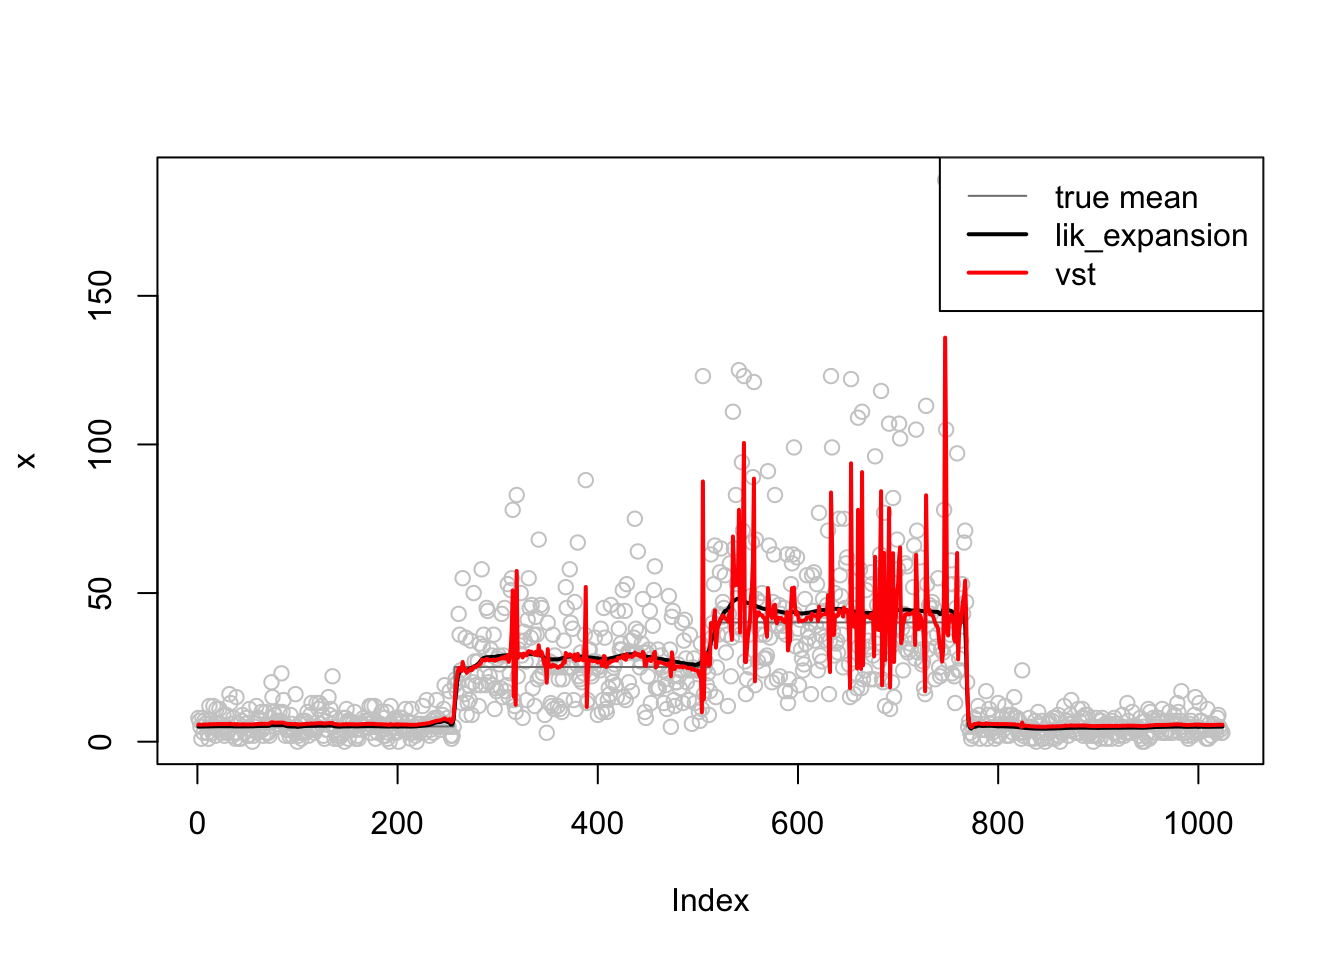
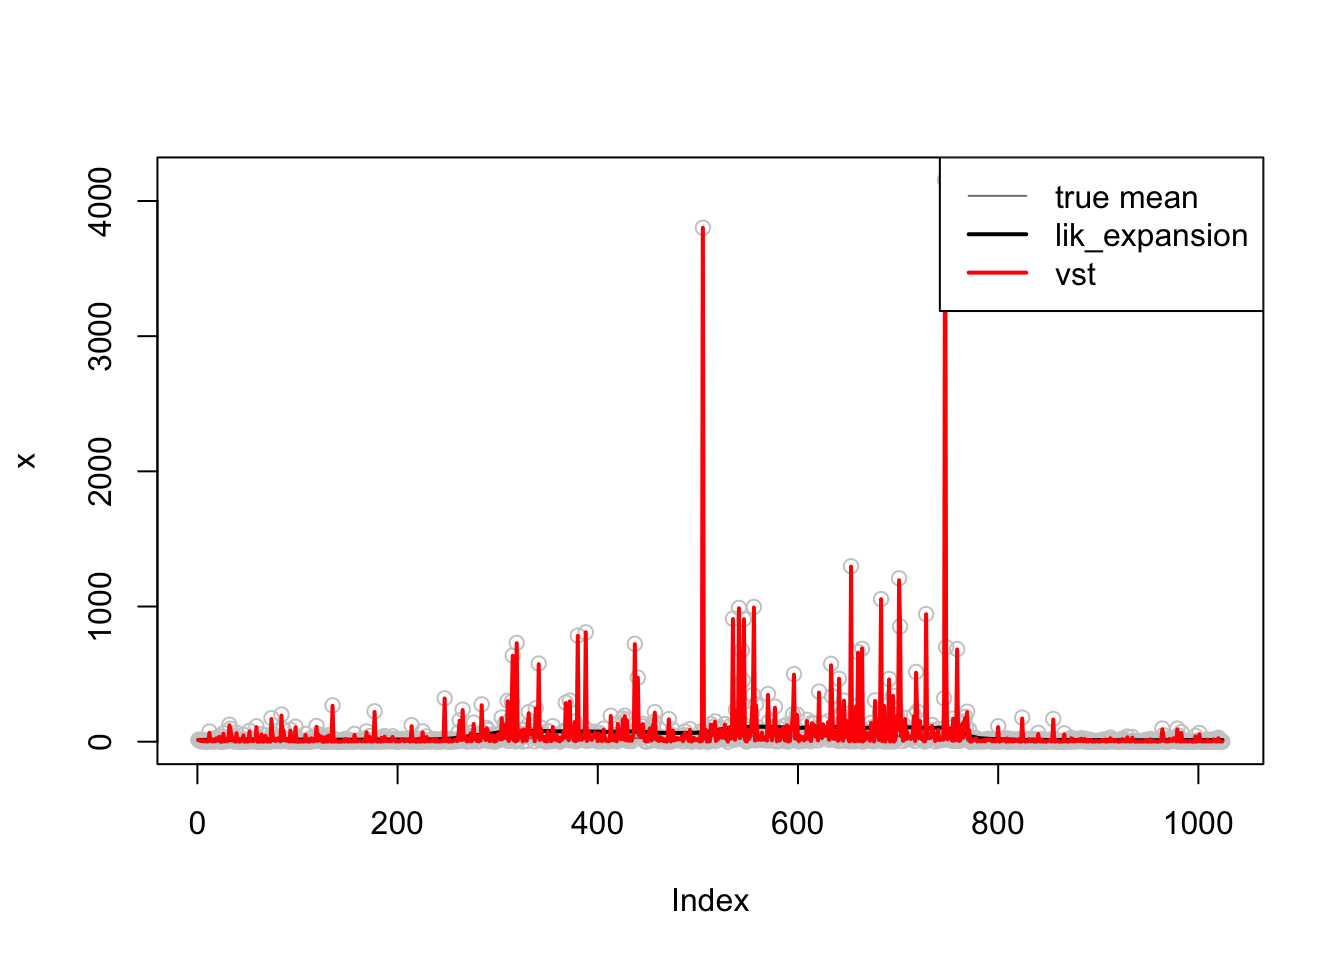
Build site.

diff --git a/docs/vstlikcompare.html b/docs/vstlikcompare.html
@@ -496,10 +496,10 @@ This reproducible <a href="http://rmarkdown.rstudio.com">R Markdown</a> analysis
 <div class="panel panel-default">
 <div class="panel-heading">
 <p class="panel-title">
-<a data-toggle="collapse" data-parent="#workflowr-checks" href="#strongRepositoryversionstrongahrefhttpsgithubcomDongyueXiesmashgentree419cb5de1e4e8c4bf174cf5ccdb47a82b5ceb030targetblank419cb5da"> <span class="glyphicon glyphicon-ok text-success" aria-hidden="true"></span> <strong>Repository version:</strong> <a href="https://github.com/DongyueXie/smash-gen/tree/419cb5de1e4e8c4bf174cf5ccdb47a82b5ceb030" target="_blank">419cb5d</a> </a>
+<a data-toggle="collapse" data-parent="#workflowr-checks" href="#strongRepositoryversionstrongahrefhttpsgithubcomDongyueXiesmashgentree71ccfa4398221f5fe3fd2b735e5bf1e3311843e2targetblank71ccfa4a"> <span class="glyphicon glyphicon-ok text-success" aria-hidden="true"></span> <strong>Repository version:</strong> <a href="https://github.com/DongyueXie/smash-gen/tree/71ccfa4398221f5fe3fd2b735e5bf1e3311843e2" target="_blank">71ccfa4</a> </a>
 </p>
 </div>
[2 lines of base64/hex data omitted]
 <div class="panel-body">
 <p>
 Great! You are using Git for version control. Tracking code development and connecting the code version to the results is critical for reproducibility. The version displayed above was the version of the Git repository at the time these results were generated. <br><br> Note that you need to be careful to ensure that all relevant files for the analysis have been committed to Git prior to generating the results (you can use <code>wflow_publish</code> or <code>wflow_git_commit</code>). workflowr only checks the R Markdown file, but you know if there are other scripts or data files that it depends on. Below is the status of the Git repository when the results were generated:
@@ -572,6 +572,40 @@ Message
 Rmd
 </td>
 <td>
+<a href="https://github.com/DongyueXie/smash-gen/blob/71ccfa4398221f5fe3fd2b735e5bf1e3311843e2/analysis/vstlikcompare.Rmd" target="_blank">71ccfa4</a>
+</td>
+<td>
+Dongyue Xie
+</td>
+<td>
+2020-09-08
+</td>
+<td>
+wflow_publish(“analysis/vstlikcompare.Rmd”)
+</td>
+</tr>
+<tr>
+<td>
+html
+</td>
+<td>
+<a href="https://rawcdn.githack.com/DongyueXie/smash-gen/cf53728bc2a735cee4a83902d734f20d5b9190e3/docs/vstlikcompare.html" target="_blank">cf53728</a>
+</td>
+<td>
+Dongyue Xie
+</td>
+<td>
+2020-09-08
+</td>
+<td>
+Build site.
+</td>
+</tr>
+<tr>
+<td>
+Rmd
+</td>
+<td>
 <a href="https://github.com/DongyueXie/smash-gen/blob/419cb5de1e4e8c4bf174cf5ccdb47a82b5ceb030/analysis/vstlikcompare.Rmd" target="_blank">419cb5d</a>
 </td>
 <td>
@@ -625,16 +659,8 @@ wflow_publish(“analysis/vstlikcompare.Rmd”)
 </div>
 </div>
 </div>
-<pre class="r"><code>library(smashrgen)</code></pre>
-<pre><code>Loading required package: smashr</code></pre>
-<pre><code>Loading required package: ashr</code></pre>
-<pre><code>Loading required package: caTools</code></pre>
-<pre><code>Loading required package: MASS</code></pre>
-<pre><code>Loading required package: wavethresh</code></pre>
-<pre><code>WaveThresh: R wavelet software, release 4.6.8, installed</code></pre>
-<pre><code>Copyright Guy Nason and others 1993-2016</code></pre>
-<pre><code>Note: nlevels has been renamed to nlevelsWT</code></pre>
-<pre class="r"><code>library(smashr)
+<pre class="r"><code>library(smashrgen)
+library(smashr)
 library(wavethresh)</code></pre>
 <div id="step-trend" class="section level2">
 <h2>step trend</h2>
@@ -753,7 +779,7 @@ Dongyue Xie
 <pre class="r"><code>fit2$nugget.est</code></pre>
 <pre><code>[1] 0.2803054</code></pre>
 <pre class="r"><code>set.seed(12345)
-sigma = 0.5
+sigma = 1.5
 n = 1024
 m=c(rep(1,n/4), rep(5, n/4), rep(8, n/4), rep(1, n/4))*5
 lamda=exp(log(m)+rnorm(length(m),0,sigma))
@@ -805,9 +831,9 @@ Dongyue Xie
 </div>
 </div>
 <pre class="r"><code>fit$nugget.est</code></pre>
-<pre><code>[1] 0.2379032</code></pre>
+<pre><code>[1] 1.993192</code></pre>
 <pre class="r"><code>fit2$nugget.est</code></pre>
-<pre><code>[1] 0.6471359</code></pre>
+<pre><code>[1] 0</code></pre>
 </div>
 <div id="generate-from-sqrt-root-link" class="section level3">
 <h3>Generate from sqrt-root link</h3>
@@ -848,6 +874,17 @@ Date
 </tr>
 </thead>
 <tbody>
+<tr>
+<td>
+<a href="https://github.com/DongyueXie/smash-gen/blob/cf53728bc2a735cee4a83902d734f20d5b9190e3/docs/figure/vstlikcompare.Rmd/unnamed-chunk-5-1.png" target="_blank">cf53728</a>
+</td>
+<td>
+Dongyue Xie
+</td>
+<td>
+2020-09-08
+</td>
+</tr>
 <tr>
 <td>
 <a href="https://github.com/DongyueXie/smash-gen/blob/8627a119e12a7c3e08123f85906bdd867128637a/docs/figure/vstlikcompare.Rmd/unnamed-chunk-5-1.png" target="_blank">8627a11</a>
@@ -904,6 +941,17 @@ Date
 </tr>
 </thead>
 <tbody>
+<tr>
+<td>
+<a href="https://github.com/DongyueXie/smash-gen/blob/cf53728bc2a735cee4a83902d734f20d5b9190e3/docs/figure/vstlikcompare.Rmd/unnamed-chunk-6-1.png" target="_blank">cf53728</a>
+</td>
+<td>
+Dongyue Xie
+</td>
+<td>
+2020-09-08
+</td>
+</tr>
 <tr>
 <td>
 <a href="https://github.com/DongyueXie/smash-gen/blob/8627a119e12a7c3e08123f85906bdd867128637a/docs/figure/vstlikcompare.Rmd/unnamed-chunk-6-1.png" target="_blank">8627a11</a>
